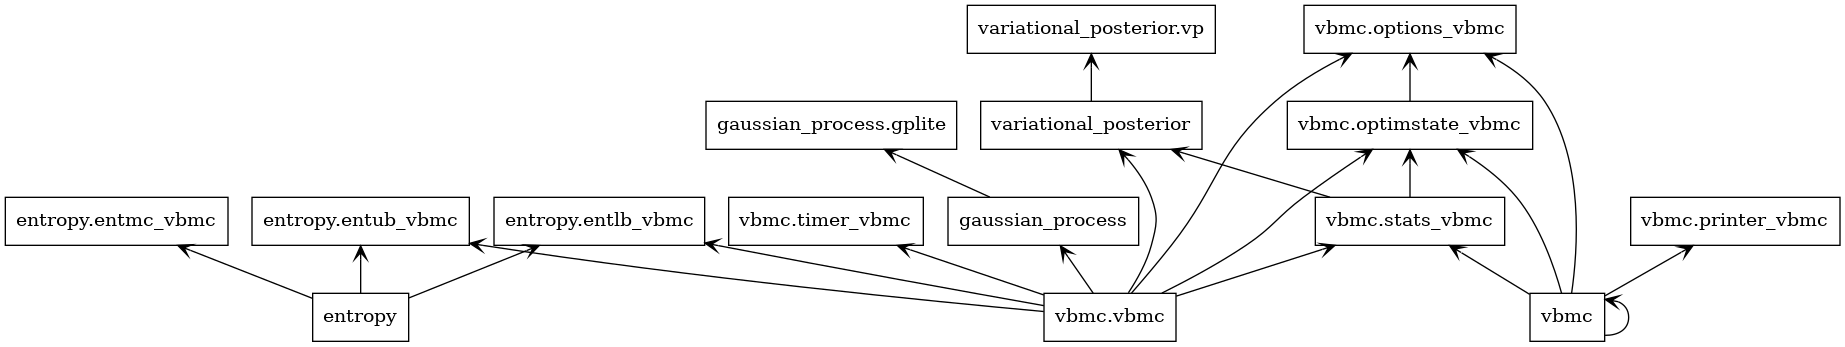
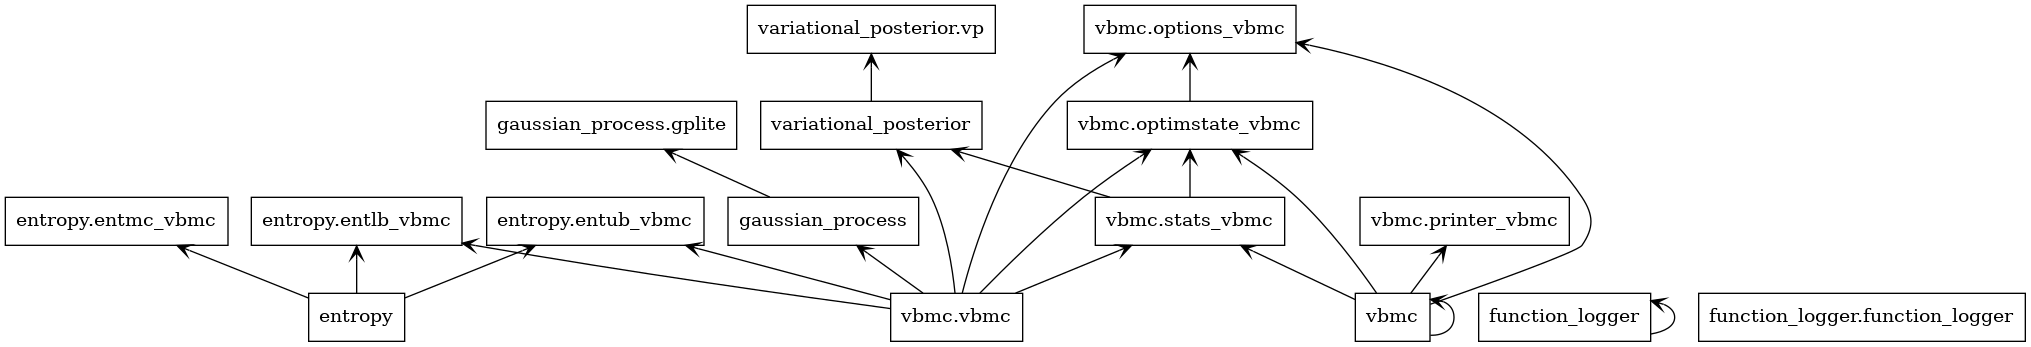
fix: multiple package and naming issues

diff --git a/initialCodePort/vbmc/vbmc.py b/initialCodePort/vbmc/vbmc.py
@@ -1,13 +1,13 @@
 import math
 import sys
-from gaussian_process import GP_Lite
+from ..gaussian_process import GP_Lite
 from .optimstate_vbmc import OptimState
 from .options_vbmc import Options_VBMC
-from .timer_vbmc import Timer
-from entropy.entlb_vbmc import entlb_vbmc
-from entropy.entub_vbmc import entub_vbmc
+from ..timer import Timer
+from ..entropy.entlb_vbmc import entlb_vbmc
+from ..entropy.entub_vbmc import entub_vbmc
 from .stats_vbmc import Stats
-from variational_posterior import VP
+from ..variational_posterior import VP
 
 
 class VBMC(object):
@@ -519,7 +519,6 @@ class VBMC(object):
             sKL = max(
                 0, 0.5 * sum(vbmc_kldiv(vp, vp_old, Nkl, options.KLgauss))
             )
-
 
     # Active Sampling
 

diff --git a/initialCodePort/timer/timer.py b/initialCodePort/timer/timer.py
@@ -1,18 +1,20 @@
 class Timer(object):
     """
-    Timer of VBMC algorithm
+    Timer class
     """
 
     def __init__(self):
         self.start_times = dict()
         self.durations = dict()
-        
+
     def start_timer(self, name):
         self.start_times[name] = 0
 
     def stop_timer(self, name):
-        if(name in start_times):
-            self.durations[name] = self.durations[name] +  0 - self.start_times[name]
+        if name in start_times:
+            self.durations[name] = (
+                self.durations[name] + 0 - self.start_times[name]
+            )
 
     def get_duration(self, name):
         return self.durations.get(name)

diff --git a/initialCodePort/vbmc/stats_vbmc.py b/initialCodePort/vbmc/stats_vbmc.py
@@ -1,5 +1,5 @@
 from .optimstate_vbmc import OptimState
-from variational_posterior import VP
+from ..variational_posterior import VP
 
 
 class Stats(object):
@@ -79,4 +79,4 @@ class Stats(object):
         else:
             self.outwarp_threshold[iteration] = NaN
         self.lcbmax[iteration] = optimState.lcbmax
-        self.t[iteration] = NaN    #Fill it at the end of the iteration
+        self.t[iteration] = NaN  # Fill it at the end of the iteration

diff --git a/initialCodePort/vbmc/printer_vbmc.py b/initialCodePort/vbmc/printer_vbmc.py
@@ -1,11 +1,11 @@
-class Printer_VBMC(object):
+class PrinterVBMC(object):
     """
     Prints the status messages of the VBMC algorithm
     """
 
     def __init__(self, verbose_level):
         self.verbose_level = verbose_level
-        self.action = ''
+        self.action = ""
 
     def print_final_message(self, exitflag):
         # Print final message

diff --git a/initialCodePort/vbmc/__init__.py b/initialCodePort/vbmc/__init__.py
@@ -1,7 +1,6 @@
 # __init__.py
 from .optimstate_vbmc import OptimState
-from .options_vbmc import Options_VBMC
-from .printer_vbmc import Printer_VBMC
-from .timer_vbmc import Timer
+from .options_vbmc import OptionsVBMC
+from .printer_vbmc import PrinterVBMC
 from .stats_vbmc import Stats
 from .vbmc import VBMC

diff --git a/initialCodePort/gaussian_process/gplite.py b/initialCodePort/gaussian_process/gplite.py
@@ -1,7 +1,7 @@
 from abc import ABC, abstractmethod
 
 
-class GP_Lite(ABC):
+class GPLite(ABC):
     """
     Use interface and common GP library for first version of pyVBMC
     """

diff --git a/initialCodePort/vbmc/options_vbmc.py b/initialCodePort/vbmc/options_vbmc.py
@@ -1,4 +1,4 @@
-class Options_VBMC(object):
+class OptionsVBMC(object):
     """
     Default Options of VBMC algorithm
     Appoach to model as a class inspired by

diff --git a/initialCodePort/function_logger/function_logger.py b/initialCodePort/function_logger/function_logger.py
@@ -1,6 +1,6 @@
 import sys
 import numpy as np
-from vbmc.timer_vbmc import Timer
+from ..timer import Timer
 
 
 class FunctionLogger(object):

diff --git a/initialCodePort/gaussian_process/__init__.py b/initialCodePort/gaussian_process/__init__.py
@@ -1,1 +1,1 @@
-from .gplite import GP_Lite
+from .gplite import GPLite

diff --git a/initialCodePort/timer/__init__.py b/initialCodePort/timer/__init__.py
@@ -1,0 +1,2 @@
+# __init__.py
+from .timer import Timer
